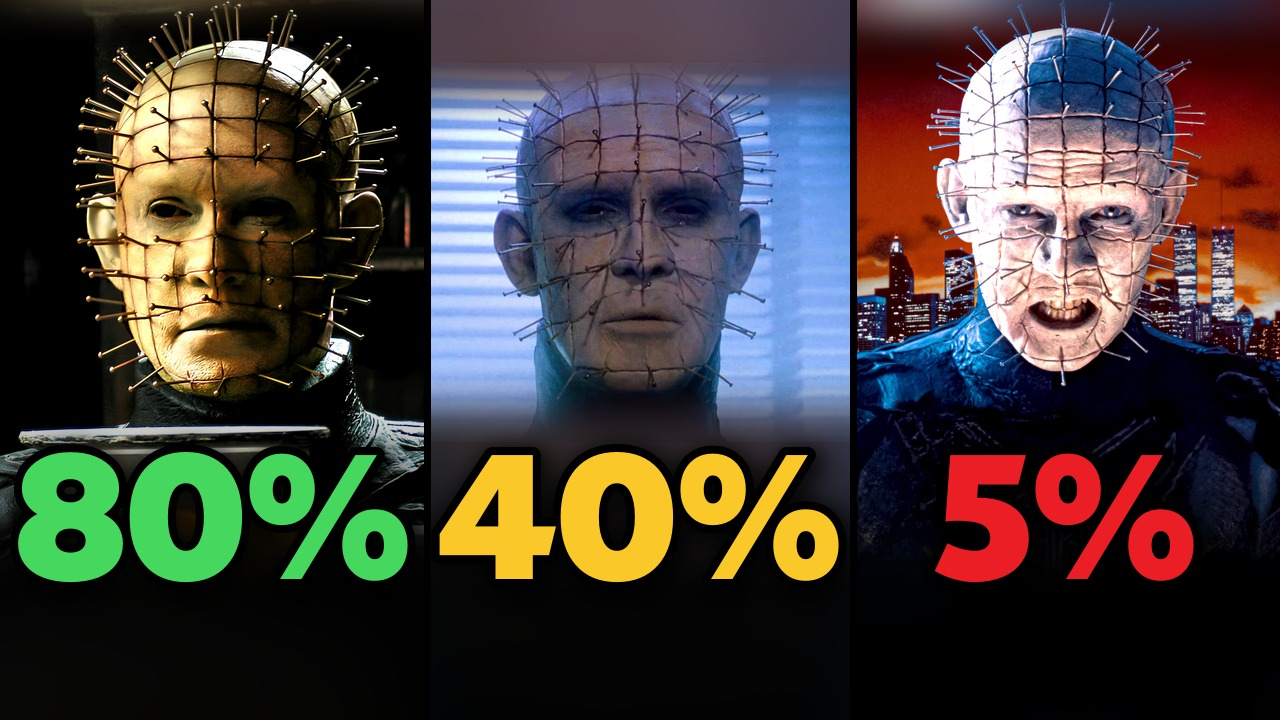
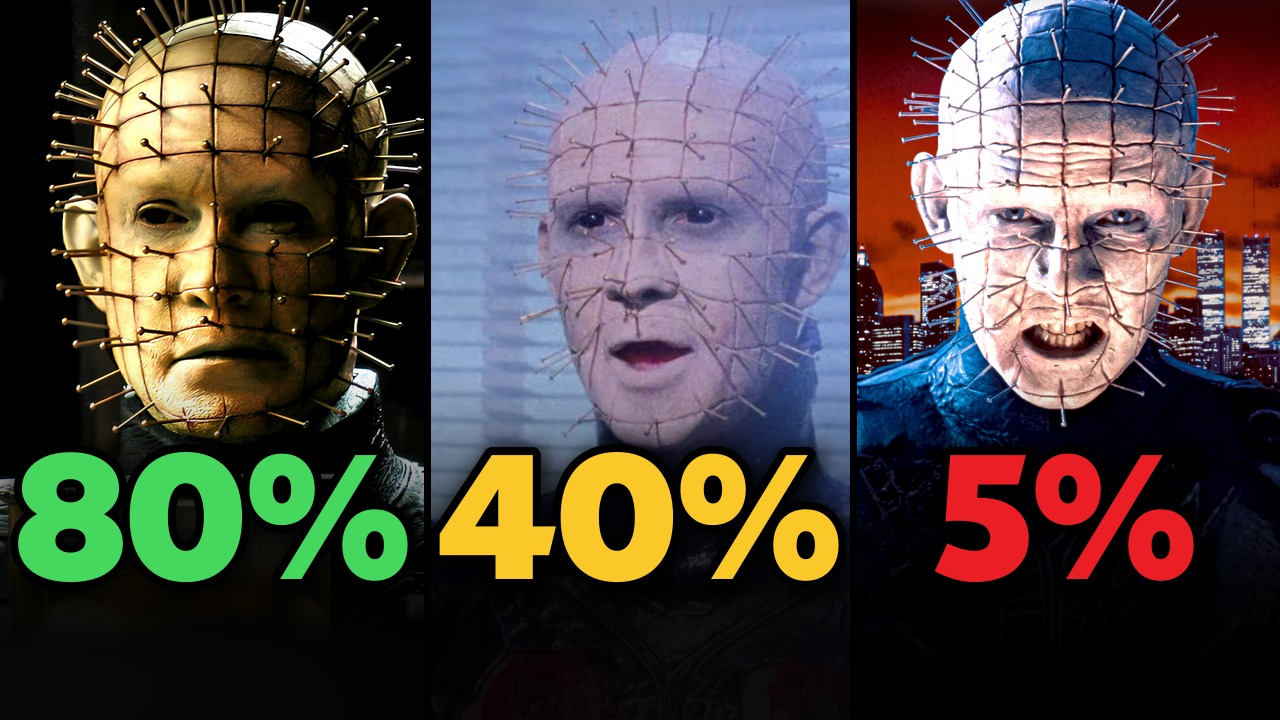
EP07 thumbs v3: every panel filled edge to edge, bigger faces at one shared scale

diff --git a/concepts/i444/ep07_pinhead/thumbs.py b/concepts/i444/ep07_pinhead/thumbs.py
@@ -16,10 +16,11 @@ POSTERS = sys.argv[3] if len(sys.argv) > 3 else 'C:/Users/hw549/AppData/Local/Te
 def frame(clip, t):
     """a clip frame (1920x1080) or, for clip='poster:<file>', an official poster/still from TMDB at its own size (never committed)"""
     if clip.startswith('poster:'): return Image.open(os.path.join(POSTERS, clip[7:])).convert('RGB')
+    nat = clip.startswith('native:'); clip = clip.replace('native:', '')       # native: keep the clip's own resolution (4K packs)
     png = subprocess.check_output(['ffmpeg', '-v', 'error', '-ss', str(t), '-i', os.path.join(CLIPS, clip + '.mp4'), '-frames:v', '1',
                                    '-f', 'image2pipe', '-vcodec', 'png', '-'])
     im = Image.open(io.BytesIO(png)).convert('RGB')
-    return im if im.size == (1920, 1080) else im.resize((1920, 1080), Image.LANCZOS)   # 1440p sources -> 1920x1080 coordinates
+    return im if nat or im.size == (1920, 1080) else im.resize((1920, 1080), Image.LANCZOS)   # 1440p sources -> 1920x1080 coordinates
 def grade(im, bright=1.0, contrast=1.18, sat=0.95):
     im = ImageEnhance.Brightness(im).enhance(bright); im = ImageEnhance.Contrast(im).enhance(contrast)
     return ImageEnhance.Color(im).enhance(sat)
@@ -40,6 +41,8 @@ def panel(sp, pw):
         bg, k = sp['pad']; ox, oy = pw / 2 - cx, sp['eye_y'] - cy
         p = bg.crop((int(sp['cx'] * k - pw / 2), int(sp['cy'] * k - sp['eye_y'])) + (int(sp['cx'] * k + pw / 2), int(sp['cy'] * k - sp['eye_y']) + H)).convert('RGBA')
         m = Image.new('L', big.size, 0); ImageDraw.Draw(m).rectangle([30, 30, big.width - 30, big.height - 30], fill=255); m = m.filter(ImageFilter.GaussianBlur(18))
+        if ox > 0 or oy > 0 or ox + big.width < pw or oy + big.height < H - 100: print(   # up to 100 px short at the bottom is inside the black number shadow
+            '  WARN source does not fill the panel', sp['clip'], int(ox), int(oy), big.size)
         p.paste(big, (int(ox), int(oy)), m)
     else:
         x0 = int(min(max(cx - pw / 2, 0), big.width - pw)); y0 = int(min(max(cy - sp.get('eye_y', 250), 0), big.height - H))
@@ -65,14 +68,14 @@ os.makedirs(OUT, exist_ok=True)
 # owner 11/04: every face centred (nose on the panel centre) and the same size with the eyes on one line in all panels:
 # (cx, cy) = nose x / eye line, face_h = eye-to-mouth distance in source px -> FACE px in the output, eyes at EYE.
 # No source image twice in a thumbnail or across A/B/C (the 1987 / Hell on Earth skyline face is one photo).
-FACE, EYE = 115, 210
+FACE, EYE = 135, 215
 def F(clip, t, cx, cy, em, pct, col, bright=1.15): return P(clip, t, cx, cy, em, pct, col, bright, face_px=FACE, eye_y=EYE)
-three([F('poster:o_lXpBj7RDr7wShql0KpCLYHyYvdi.jpg', 0, 2179, 865, 412, '80%', GREEN, 1.1),     # Hellworld, jar room
-       F('hr1_pack4k', 45.7, 889, 417, 327, '40%', YEL, 1.25),                                 # Hellraiser 1987, hospital blinds (4K clip)
-       F('poster:o_xjeoa7KjnUMQzJXGunHmgMjhHmP.jpg', 0, 2556, 802, 416, '5%', RED, 1.05)], 'pinhead_thumb_a.jpg')   # Hell on Earth, skyline
+three([F('poster:o_lXpBj7RDr7wShql0KpCLYHyYvdi.jpg', 0, 2179, 865, 405, '80%', GREEN, 1.1),     # Hellworld, jar room
+       F('native:hr1_pack4k', 44.0, 1240, 425, 230, '40%', YEL, 1.05),                         # Hellraiser 1987, hospital blinds (4K pack, native px)
+       F('poster:o_xjeoa7KjnUMQzJXGunHmgMjhHmP.jpg', 0, 2556, 802, 405, '5%', RED, 1.05)], 'pinhead_thumb_a.jpg')   # Hell on Earth, skyline
 three([F('poster:o_qW4hr2WweKiyztgd4Ql0wlfRYBF.jpg', 0, 2403, 458, 275, '60%', GREEN, 1.2),     # Judgment
        F('hr22_bridge', 25.0, 807, 434, 191, '30%', YEL, 1.9),                                # the Priest, 2022
-       F('poster:o_qAe4OrahEXWYwmm5wEjk5G7UjxU.jpg', 0, 945, 510, 310, '8%', RED, 1.1)], 'pinhead_thumb_b.jpg')    # Inferno
+       F('poster:o_yyiu_notitle.jpg', 0, 430, 639, 228, '8%', RED, 1.1)], 'pinhead_thumb_b.jpg')    # Inferno, official poster art (o_yyiuRnEIDCjr0g2Fsal0isi9GcU, title faded to its black background)
 three([F('poster:o_pl5OzUABUK5AgAsMlQg2VyybRHL.jpg', 0, 1719, 485, 188, '55%', GREEN, 0.95),     # Hellbound
-       F('poster:o_4YXR73TbaS9xl8KfEc88W8CjxkJ.jpg', 0, 970, 276, 210, '25%', YEL, 0.95),      # Bloodline
-       F('hr3_iamtheway', 131.6, 814, 320, 258, '5%', RED, 1.45)], 'pinhead_thumb_c.jpg')        # Hell on Earth, church
+       F('poster:o_udZ3XqsurnNuGp1QfS5CLod6MS5.jpg', 0, 1000, 450, 283, '25%', YEL, 0.95),     # Bloodline, official poster art
+       F('hr3_unstoppable', 86.5, 1000, 418, 195, '5%', RED, 1.35)], 'pinhead_thumb_c.jpg')       # Hell on Earth, Boiler Room chains

diff --git a/concepts/i444/ep07_pinhead/qa/measure.py b/concepts/i444/ep07_pinhead/qa/measure.py
@@ -5,8 +5,9 @@ out, src = sys.argv[1], sys.argv[2]; x0, y0, x1, y1 = map(int, sys.argv[3:7]); s
 POSTERS = 'C:/Users/hw549/AppData/Local/Temp/claude/C--Users-hw549-Downloads-YTP1/13ed4b5d-5f22-4c14-8e5f-413f537955db/scratchpad/tmdb_ph'
 CLIPS = 'E:/YTP2/Horror Ranked/EP07 Pinhead/1_work/clips'
 if '@' in src:
-    c, t = src.split('@'); png = subprocess.check_output(['ffmpeg', '-v', 'error', '-ss', t, '-i', os.path.join(CLIPS, c + '.mp4'), '-frames:v', '1', '-f', 'image2pipe', '-vcodec', 'png', '-'])
-    im = Image.open(io.BytesIO(png)).convert('RGB'); im = im.resize((1920, 1080), Image.LANCZOS)   # same 1920x1080 coordinates as thumbs.py
+    c, t = src.split('@'); nat = c.startswith('native:'); c = c.replace('native:', ''); png = subprocess.check_output(['ffmpeg', '-v', 'error', '-ss', t, '-i', os.path.join(CLIPS, c + '.mp4'), '-frames:v', '1', '-f', 'image2pipe', '-vcodec', 'png', '-'])
+    im = Image.open(io.BytesIO(png)).convert('RGB')
+    if not nat: im = im.resize((1920, 1080), Image.LANCZOS)   # same 1920x1080 coordinates as thumbs.py (native: = source pixels)
 else: im = Image.open(os.path.join(POSTERS, src)).convert('RGB')
 c = im.crop((x0, y0, x1, y1)); k = 900 / max(c.size); c = c.resize((int(c.width * k), int(c.height * k))); d = ImageDraw.Draw(c); fn = ImageFont.truetype('arial.ttf', 16)
 for x in range((x0 // st + 1) * st, x1, st): X = (x - x0) * k; d.line([(X, 0), (X, c.height)], fill=(255, 255, 0) if x % (st * 2) == 0 else (110, 110, 0)); d.text((X + 2, 2), str(x), font=fn, fill='yellow')

diff --git a/concepts/i444/ep07_pinhead/upload/upload_kit_v1.md b/concepts/i444/ep07_pinhead/upload/upload_kit_v1.md
@@ -8,10 +8,10 @@ Video: E:\YTP2\Horror Ranked\EP07 Pinhead\2_renders\ep07_pinhead_v1.mp4 | Subtit
 3. You Solved the Box Which Pinhead Comes for You
 
 ## Thumbnails (left GREEN / middle YELLOW / right RED; three very different variants)
-(v2 11/04: no source image used twice; every face centred, same size, eyes on one line)
-A. Pinhead, Hellworld (official still) 80% / Pinhead, Hellraiser 1987 (hospital blinds, official 4K clip) 40% / Pinhead, Hell on Earth (skyline, official still) 5%
-B. Pinhead, Judgment (official still) 60% / the Priest, Hellraiser 2022 30% / Pinhead, Inferno (official still) 8%
-C. Pinhead, Hellbound (official still) 55% / Pinhead, Bloodline (official still) 25% / Pinhead, Hell on Earth (church, official clip) 5%
+(v3 11/04: no source image used twice; every face centred, same size, eyes on one line, every panel filled edge to edge)
+A. Pinhead, Hellworld (official still) 80% / Pinhead, Hellraiser 1987 (hospital blinds, 4K clip) 40% / Pinhead, Hell on Earth (skyline, official still) 5%
+B. Pinhead, Judgment (official still) 60% / the Priest, Hellraiser 2022 30% / Pinhead, Inferno (official poster art) 8%
+C. Pinhead, Hellbound (official still) 55% / Pinhead, Bloodline (official poster art) 25% / Pinhead, Hell on Earth (Boiler Room, official clip) 5%
 
 ## Description
 You just solved the puzzle box, and Pinhead is standing in your room. How likely are you to survive him? We score every Pinhead on strength, intelligence, kill count and how supernatural he is, which really means whether anything you do can stop him, and rank all eleven Hellraiser films, from Hellworld and Judgment to the original Hellraiser, the 2022 Priest and Hell on Earth.
